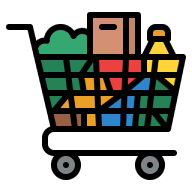
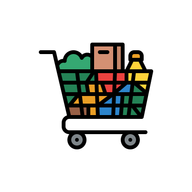
maj splash screen et appicon

diff --git a/generate-all-icons.js b/generate-all-icons.js
@@ -1,0 +1,57 @@
+const sharp = require('sharp');
+const path = require('path');
+const fs = require('fs');
+
+async function generateIcon({ inputPath, outputPath, size, paddingFactor = 0.1, backgroundColor = { r: 255, g: 255, b: 255, alpha: 1 } }) {
+  const padding = Math.round(size * paddingFactor);
+  const innerSize = size - (padding * 2);
+
+  // Read the original icon and resize it
+  const resizedIcon = await sharp(inputPath)
+    .resize(innerSize, innerSize, { fit: 'contain', background: { r: 0, g: 0, b: 0, alpha: 0 } })
+    .toBuffer();
+
+  // Create canvas and composite
+  await sharp({
+    create: {
+      width: size,
+      height: size,
+      channels: 4,
+      background: backgroundColor
+    }
+  })
+    .composite([{
+      input: resizedIcon,
+      left: padding,
+      top: padding
+    }])
+    .png()
+    .toFile(outputPath);
+
+  console.log(`✅ Generated ${outputPath} (${size}x${size})`);
+}
+
+async function main() {
+  const publicDir = path.join(__dirname, 'public');
+  const sourceIcon = path.join(publicDir, 'source-cart.png');
+
+  if (!fs.existsSync(sourceIcon)) {
+    console.error(`Error: Source icon not found at ${sourceIcon}`);
+    process.exit(1);
+  }
+
+  // Standard icons (10% padding for better look)
+  await generateIcon({ inputPath: sourceIcon, outputPath: path.join(publicDir, 'icon-192x192.png'), size: 192, paddingFactor: 0.15 });
+  await generateIcon({ inputPath: sourceIcon, outputPath: path.join(publicDir, 'icon-512x512.png'), size: 512, paddingFactor: 0.15 });
+
+  // Maskable icons (Requires at least 10% safe zone padding, we use 18% for safety/aesthetics)
+  await generateIcon({ inputPath: sourceIcon, outputPath: path.join(publicDir, 'icon-maskable-192x192.png'), size: 192, paddingFactor: 0.2 });
+  await generateIcon({ inputPath: sourceIcon, outputPath: path.join(publicDir, 'icon-maskable-512x512.png'), size: 512, paddingFactor: 0.2 });
+
+  // Splash screen icon (Maybe larger with more padding)
+  await generateIcon({ inputPath: sourceIcon, outputPath: path.join(publicDir, 'splash-icon.png'), size: 512, paddingFactor: 0.25 });
+
+  console.log('\n🎉 All icons generated successfully with centered chariot on white background!');
+}
+
+main().catch(console.error);

diff --git a/src/app/layout.tsx b/src/app/layout.tsx
@@ -18,14 +18,49 @@ export const metadata: Metadata = {
   title: "Mon assistant de courses",
   description: "Gérez votre garde-manger, planifiez vos repas et vos courses.",
   viewport: "width=device-width, initial-scale=1, maximum-scale=1, user-scalable=0",
-  themeColor: "#3B82F6",
+  themeColor: "#ffffff", // White theme color for matching splash screen
   appleWebApp: {
     capable: true,
     statusBarStyle: "default",
     title: "Assistant Courses",
+    startupImage: [
+      {
+        url: "/icon-512x512.png",
+        media: "(device-width: 320px) and (device-height: 568px) and (-webkit-device-pixel-ratio: 2)",
+      },
+      {
+        url: "/icon-512x512.png",
+        media: "(device-width: 375px) and (device-height: 667px) and (-webkit-device-pixel-ratio: 2)",
+      },
+      {
+        url: "/icon-512x512.png",
+        media: "(device-width: 414px) and (device-height: 736px) and (-webkit-device-pixel-ratio: 3)",
+      },
+      {
+        url: "/icon-512x512.png",
+        media: "(device-width: 375px) and (device-height: 812px) and (-webkit-device-pixel-ratio: 3)",
+      },
+      {
+        url: "/icon-512x512.png",
+        media: "(device-width: 414px) and (device-height: 896px) and (-webkit-device-pixel-ratio: 2)",
+      },
+      {
+        url: "/icon-512x512.png",
+        media: "(device-width: 414px) and (device-height: 896px) and (-webkit-device-pixel-ratio: 3)",
+      },
+    ],
   },
   formatDetection: {
     telephone: false,
+  },
+  icons: {
+    icon: [
+      { url: "/icon-192x192.png", sizes: "192x192", type: "image/png" },
+      { url: "/icon-512x512.png", sizes: "512x512", type: "image/png" },
+    ],
+    apple: [
+      { url: "/icon-192x192.png", sizes: "192x192", type: "image/png" },
+    ],
   },
 };
 
